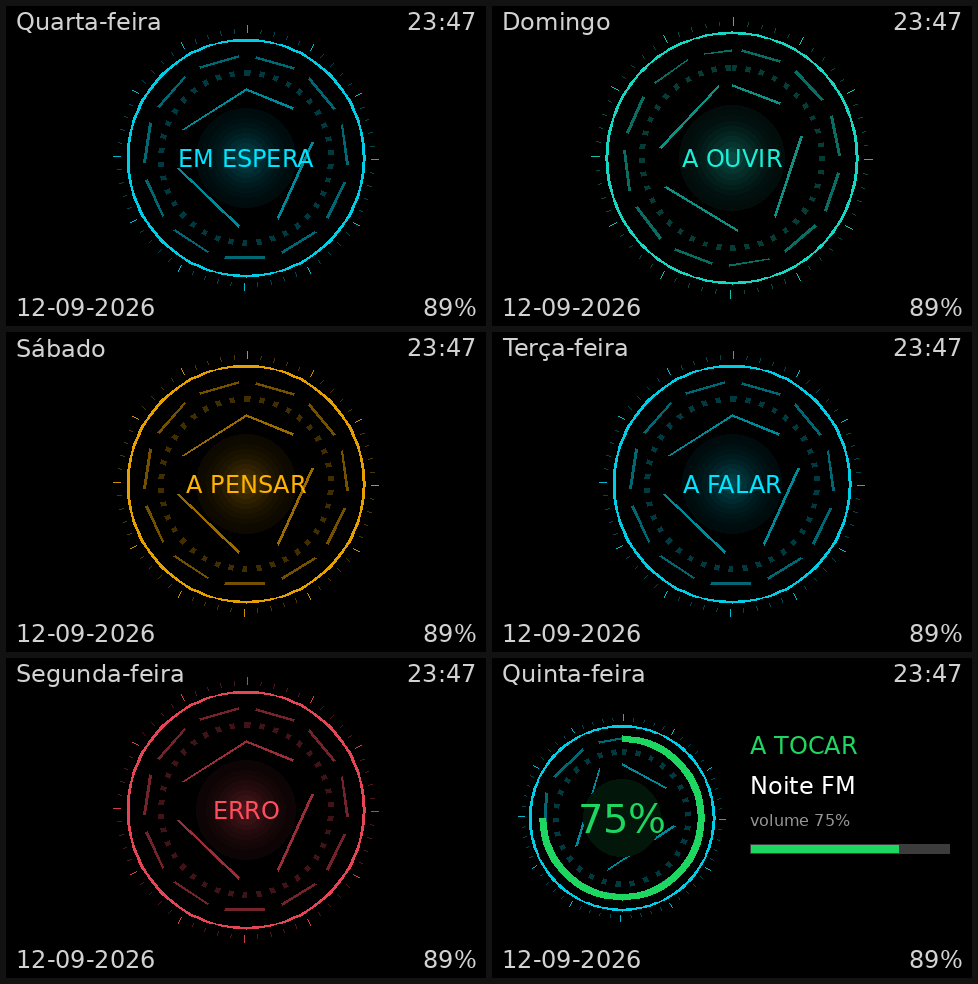
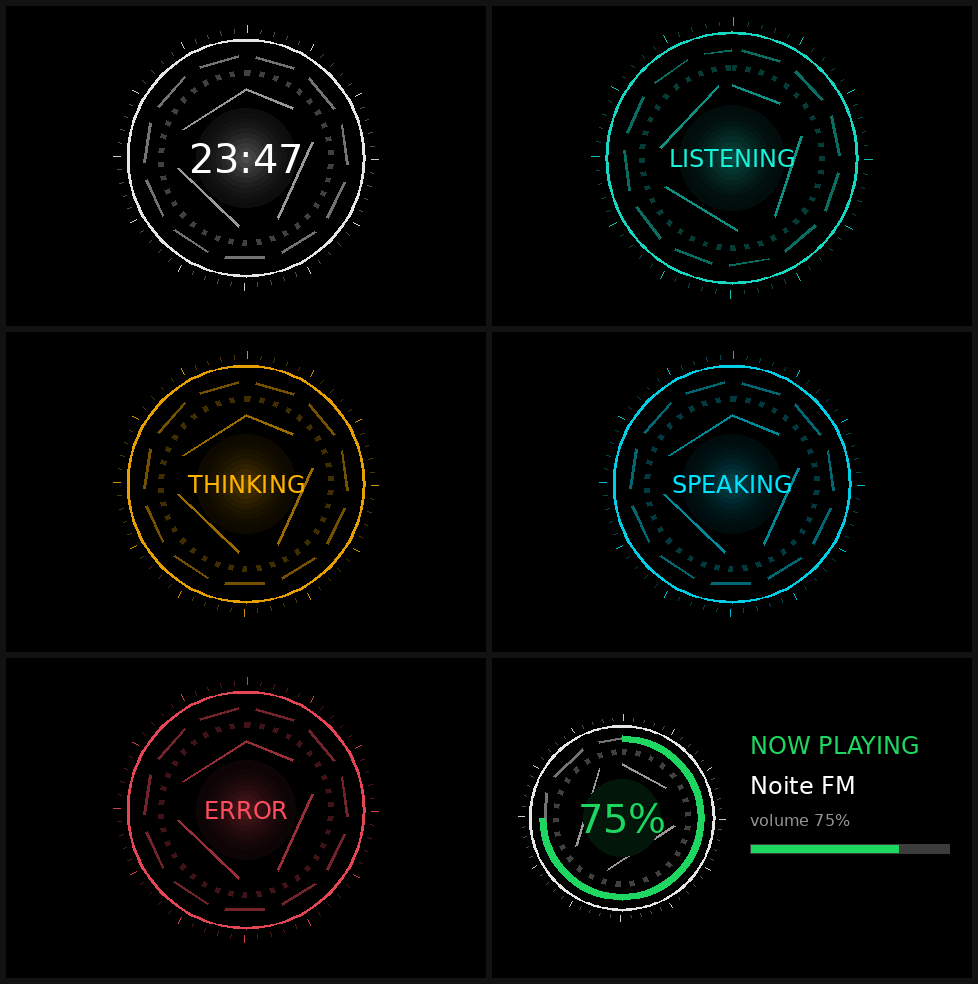
v0.15.5: minimal screen, 0.90 cutoff on the custom wake word
Screen (v0.15.5): idle is WHITE (it shared the cyan of "speaking", so the two
states were indistinguishable on the real panel), the time moved to the CENTRE
of the ring (font_med, white), and the weekday / top clock / date / battery
footer are gone. Those values are still published as HA sensors - only the
pixels were dropped; the old lambda block is kept as a comment so it can be
restored.

Wake word (v0.15.4): cutoff of the custom "ok hermes" model 0.50 -> 0.90. At
0.50 the panel woke ~20 times in one afternoon (13:38-19:32) on TV speech and
answered "I didn't get that"; the official okay_nabu model (0.93) did not fire
once in the same window.

Build note corrected: the production builds (0.15.4 / 0.15.5) run ESPHome
2026.9.0 - measured on the build machine and on the device's own firmware
sensor. The ~60 s reboots seen on 20/09 belonged to an older revision and
stopped after the va_state watchdog (v0.15.3); the pin to 2026.8.2 is no longer
needed. docs/troubleshooting.md already said this - the YAML header contradicted
it.

Repo maintenance: README HUD section and rendered mockup updated for v0.15.5
(scripts/mockup_render.py, English labels to match the published YAML), preview
regenerated, four orphan assets (zoom/cell crops of the removed rows) dropped,
secrets.yaml.example now carries a valid-format dummy key so `esphome config`
validates out of the box, and hardware/README stops advertising a binary the
repo does not ship (source only).

diff --git a/scripts/mockup_render.py b/scripts/mockup_render.py
@@ -1,5 +1,5 @@
 #!/usr/bin/env python3
-"""Render mockups 480x320 do ecra do painel de voz MAX35-TV.
+"""Render 480x320 mockups of the MAX35-TV voice panel screen.
 
 Usa as MESMAS primitivas que o lambda do ESPHome vai usar (quads de triangulos
 para os aneis tracejados, anel cheio, linhas radiais, circulos concentricos para
@@ -7,7 +7,12 @@ o glow) — o que se ve aqui e o que a placa desenha. Cor em ESPHome nao tem
 alpha: tudo o que no canvas original era `globalAlpha` aqui e misturado com o
 preto (fundo) antes de escrever o pixel, que da o mesmo resultado.
 
-Uso:  .venv313/bin/python mockup_render.py [saida.png]
+Since v0.15.5 the screen is minimal: no day of week, no top clock, no date, no
+battery footer - and the time sits in the CENTRE of the ring, in white, while
+idle. Idle is white (it used to share the cyan of "speaking" and the two states
+were indistinguishable on the real panel).
+
+Usage:  python3 mockup_render.py [output.png]
 """
 import math
 import sys
@@ -25,15 +30,16 @@ FONTS = {
 
 # --- paleta / estado (extraida do HUD eadmin2/jarvis_ai) ---------------------
 STATE_STYLE = {
-    "standby":   {"speed": 0.15, "color": (0x00, 0xE5, 0xFF), "glow": 18, "pulse": 0.0},
+    "standby":   {"speed": 0.15, "color": (0xFF, 0xFF, 0xFF), "glow": 18, "pulse": 0.0},
     "listening": {"speed": 0.50, "color": (0x19, 0xF0, 0xD8), "glow": 30, "pulse": 1.0},
     "thinking":  {"speed": 1.60, "color": (0xFF, 0xB3, 0x00), "glow": 26, "pulse": 0.4},
     "tool":      {"speed": 2.40, "color": (0xFF, 0xB3, 0x00), "glow": 32, "pulse": 0.6},
     "speaking":  {"speed": 0.70, "color": (0x00, 0xE5, 0xFF), "glow": 34, "pulse": 0.8},
     "error":     {"speed": 0.05, "color": (0xFF, 0x4D, 0x5E), "glow": 22, "pulse": 0.0},
 }
-LABEL = {"standby": "EM ESPERA", "listening": "A OUVIR", "thinking": "A PENSAR",
-         "speaking": "A FALAR", "error": "ERRO", "media": "A TOCAR"}
+# "standby" has no label: it shows the clock in the centre (v0.15.5).
+LABEL = {"listening": "LISTENING", "thinking": "THINKING",
+         "speaking": "SPEAKING", "error": "ERROR", "media": "NOW PLAYING"}
 GREEN = (30, 215, 96)
 
 
@@ -152,38 +158,33 @@ def draw_reactor(c, cx, cy, base, st, rot, level=0.0, t=0.0, sweep=None):
 
 
 # --- ecras -------------------------------------------------------------------
-def screen_voice(state, rot=140.0, level=0.0, clock="23:47", dia="Sexta-feira",
-                 data="12-09-2026", batt="89%", fade=False):
-    """Reproduz o lambda do display (v0.14.0): dia da semana no topo esquerdo,
-    relogio no topo direito, data no rodape esquerdo, bateria no rodape direito."""
+def screen_voice(state, rot=140.0, level=0.0, clock="23:47", dia=None, data=None, batt=None):
+    """Reproduces the display lambda (v0.15.5): NO day of week, NO top clock, NO
+    date and NO battery footer. While idle the centre of the ring shows the TIME
+    in white (font_med, 40); the other states show their own word in their color."""
     c = Canvas()
     st = STATE_STYLE[state]
     cx, cy, base = 240, 152, 118
-    c.text(10, 6, 24, (210, 210, 210), "TOP_LEFT", dia)
-    c.text(470, 6, 24, (210, 210, 210), "TOP_RIGHT", clock)
     draw_reactor(c, cx, cy, base, st, rot, level if state == "listening" else 0.0)
-    c.text(cx, cy, 24, st["color"], "CENTER", LABEL[state])
-    c.text(10, 292, 24, (210, 210, 210), "TOP_LEFT", data)
-    c.text(470, 292, 24, (210, 210, 210), "TOP_RIGHT", batt)
+    if state == "standby":
+        c.text(cx, cy, 40, (255, 255, 255), "CENTER", clock)
+    else:
+        c.text(cx, cy, 24, st["color"], "CENTER", LABEL[state])
     return c.img
 
 
-def screen_media(titulo="Noite FM", vol=75, rot=140.0, dia="Sexta-feira", data="12-09-2026"):
+def screen_media(titulo="Noite FM", vol=75, rot=140.0, dia=None, data=None):
     c = Canvas()
     cx, cy, base = 130, 160, 92
     st = STATE_STYLE["standby"]
     draw_reactor(c, cx, cy, base, st, rot, sweep=(vol / 100.0, GREEN))
     c.text(cx, cy, 40, GREEN, "CENTER", "{:.0f}%".format(vol))
-    # coluna da direita (mesmas coordenadas do lambda)
-    c.text(258, 78, 24, GREEN, "TOP_LEFT", "A TOCAR")
+    # right column (same coordinates as the lambda)
+    c.text(258, 78, 24, GREEN, "TOP_LEFT", "NOW PLAYING")
     c.text(258, 118, 24, (255, 255, 255), "TOP_LEFT", titulo[:18])
     c.text(258, 156, 16, (150, 150, 150), "TOP_LEFT", "volume {:.0f}%".format(vol))
     c.rect(258, 186, 200, 10, (60, 60, 60))
     c.rect(259, 187, int(198 * vol / 100.0), 8, GREEN)
-    c.text(10, 6, 24, (210, 210, 210), "TOP_LEFT", dia)
-    c.text(470, 6, 24, (210, 210, 210), "TOP_RIGHT", "23:47")
-    c.text(10, 292, 24, (210, 210, 210), "TOP_LEFT", data)
-    c.text(470, 292, 24, (210, 210, 210), "TOP_RIGHT", "89%")
     return c.img
 
 
@@ -212,4 +213,4 @@ if __name__ == "__main__":
         px = c.load()
         lit = sum(1 for y in range(0, H, 2) for x in range(0, W, 2)
                   if sum(px[x, y]) > 40)
-        print("celula", i, "pixeis iluminados:", lit, "/", (W // 2) * (H // 2))
+        print("cell", i, "lit pixels:", lit, "/", (W // 2) * (H // 2))

diff --git a/README.md b/README.md
@@ -26,8 +26,12 @@ repository; the "brain" is Hermes via
   push-to-talk (BOOT button ≥600 ms), local STT, Hermes answers and the panel
   speaks back.
 - **HUD**: animated "arc reactor" state ring on the display — color + speed per
-  state (idle/listening/thinking/speaking/error), clock + day upstream,
-  battery footer.
+  state (idle/listening/thinking/speaking/error). Idle is **white** (it used to
+  share the cyan of "speaking", which made the two states indistinguishable on
+  the real panel) and the time shows in the **centre** of the ring. Since
+  v0.15.5 the screen is minimal: no weekday, no top clock, no date, no battery
+  footer — those values are still published as HA sensors, only the pixels went
+  away.
 - **Media player**: the panel speaker is a HA `media_player` — announcements,
   TTS messages and radio/music work, with a media screen (title + volume ring).
 - **Battery**: real voltage ADC (GPIO6) with a Li-ion %, plus charging status.
@@ -60,7 +64,7 @@ firmware, hence the name). The MAX35-TV-W is the 3.5" reversion here.
 | ![Product](assets/panel-in-action.jpg) | ![Product](assets/product-1.webp) |
 | Real panel running this HUD (idle) | Front view (AliExpress) |
 | ![Product](assets/product-2.webp) | ![HUD states](assets/preview-painel.png) |
-| Board view (AliExpress) | The 5 HUD states + media screen (rendered) |
+| Board view (AliExpress) | The 5 HUD states + media screen (rendered, v0.15.5) |
 
 ### Disabled features
 

diff --git a/hardware/README.md b/hardware/README.md
@@ -21,7 +21,7 @@ The board is the **Spotpear ESP32-S3 MAX35-TV** (`ESP32S3-MAX35-TV-W`).
 | `ESP32S3-3.5inch-AI.step` | 3D board model (STEP) — [official link](https://cdn.static.spotpear.com/uploads/picture/learn/ESP32/ESP32S3-MAX35-Only-Board/ESP32S3-3.5inch-AI.step) |
 | `OV5640` / `GC0308` camera model PDFs | Camera module specs — [link](https://cdn.static.spotpear.com/uploads/picture/learn/ESP32/ESP32S3-MAX35-Only-Board/OV5640camera%20model%20.pdf) |
 | Factory firmware | `ESP32S3-MAX35-TV-EN.bin` (16 MB, offset 0x0) + `flash_download_tool-2.zip` — [wiki](https://spotpear.com/wiki/ESP32-S3-3.5-inch-LCD-TV-Display-Deepseek.html) |
-| This project's ESPHome firmware | `max35tv-v0.15.1-2026.9.0-ota.bin` / `-factory.bin` — [latest release](https://github.com/byjaps/esp32-max35-tv/releases/latest) |
+| This project's ESPHome firmware | Source only — **no pre-built binaries are published** (an ESPHome binary carries the whole configuration it was compiled with). Build it from this repo: see [Getting started](https://github.com/byjaps/esp32-max35-tv#getting-started) |
 
 ## Buying
 
